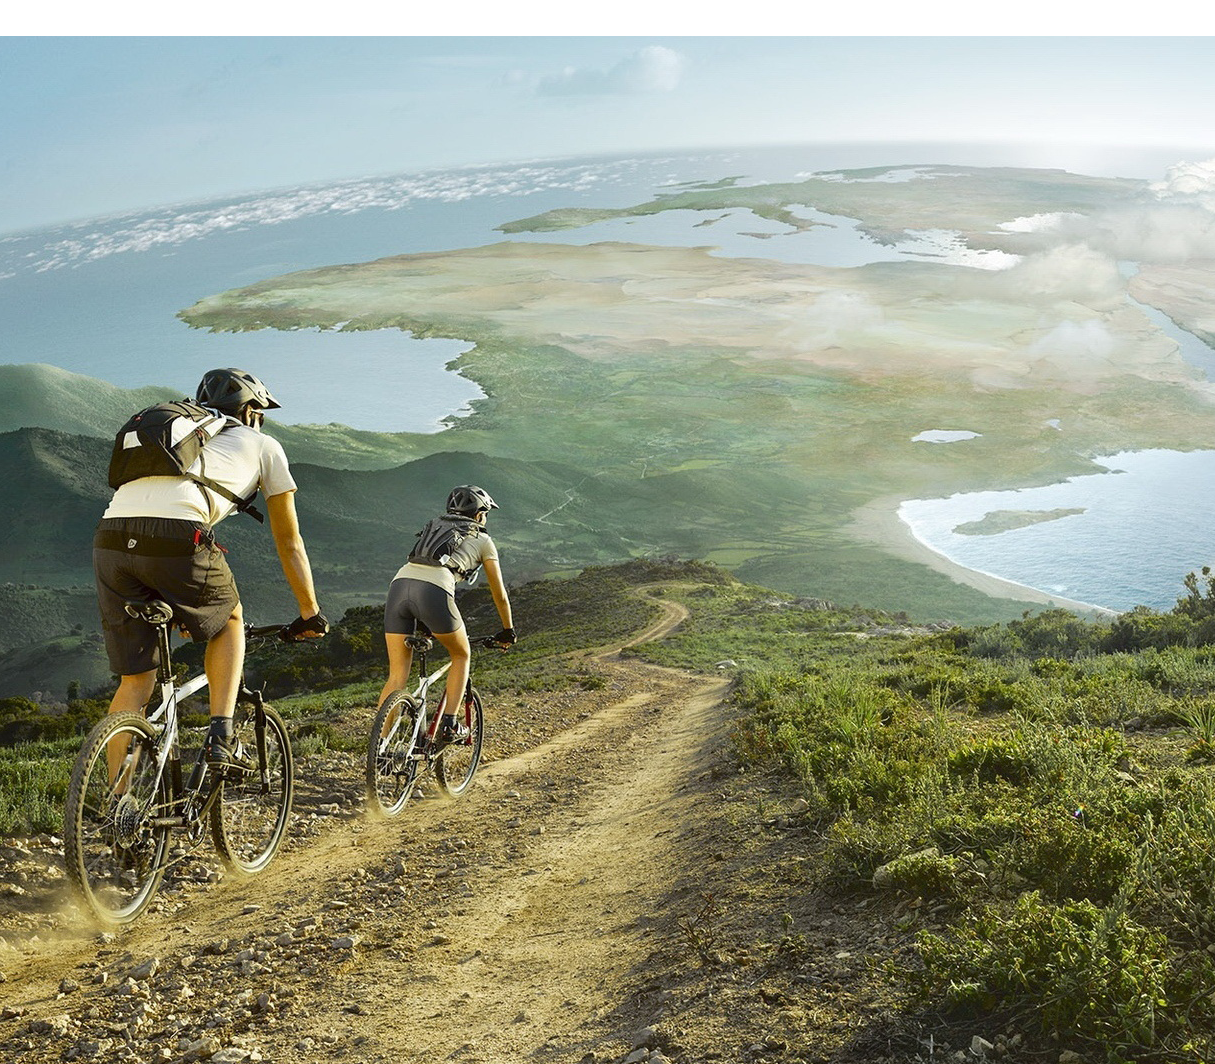
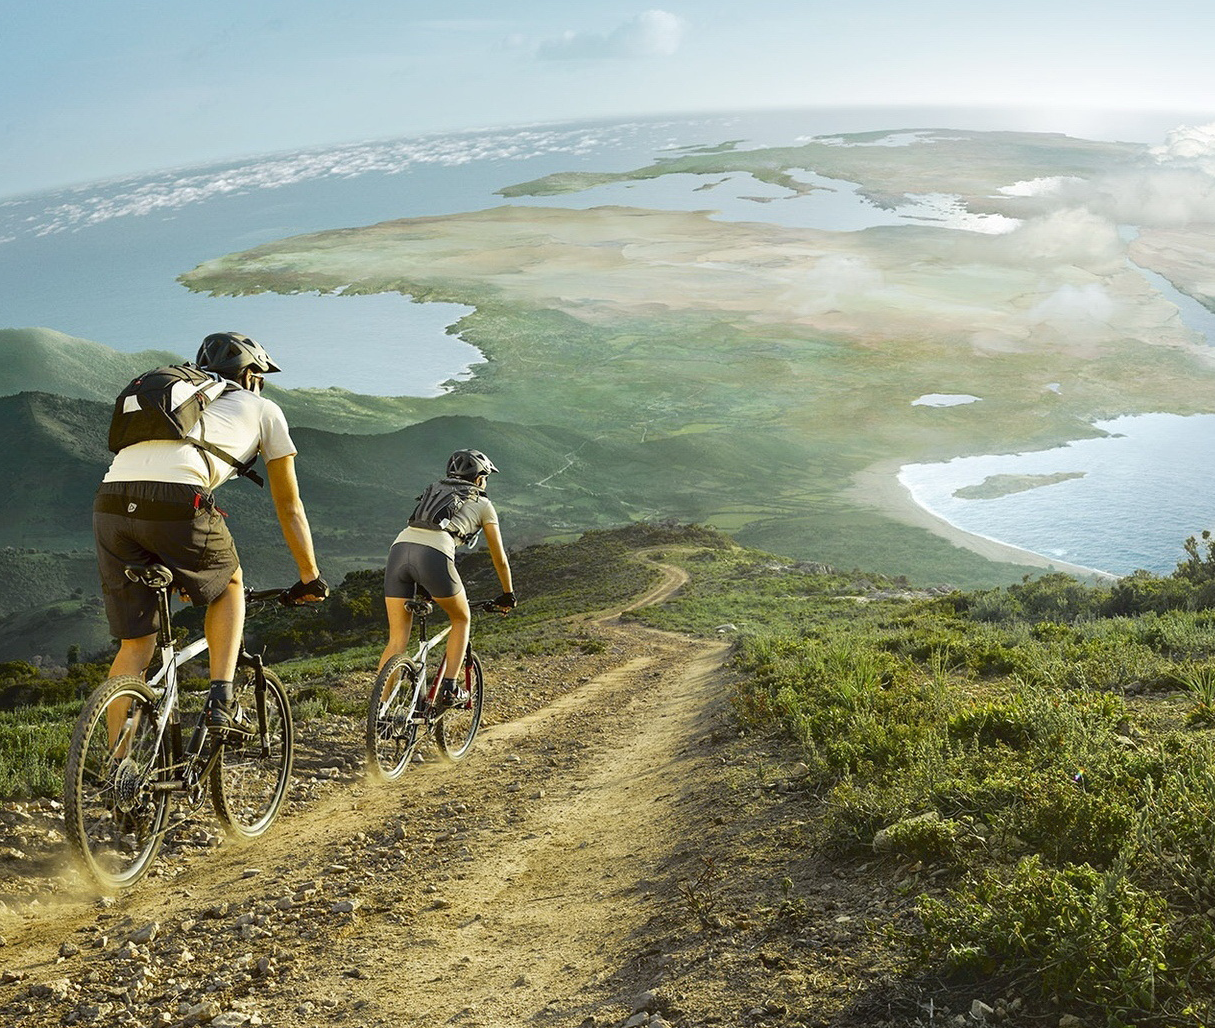
no scroll

diff --git a/hw5/CSS/style.css b/hw5/CSS/style.css
@@ -8,16 +8,16 @@
 	padding: 0;
 }
 
-body {
-	background: #c0c0c0;
-	font-family: 'Helvetica Neue', Arial;
+html {
+	height: 100%;
 }
 
-.wrapper {
-	width: 1215px;
-	height: 1064px;
-	margin: 0 auto;
-	background-image: url(../IMG/background.png);
+body {
+	height: 100%;
+	font-family: 'Helvetica Neue', Arial;
+	background: url(../IMG/background.png) no-repeat;
+	background-size: cover;
+	overflow: hidden;	
 }
 
 ul {

diff --git a/hw5/index.html b/hw5/index.html
@@ -7,8 +7,6 @@
 </head>
 
 <body>
-	<div class="wrapper">
-
 		<header>
 			<div class="menu">
 				<div class="flex-cont">
@@ -80,6 +78,5 @@
 				</div>
 			</div>
 		</div>	
-	</div>
 </body>
 </html>
